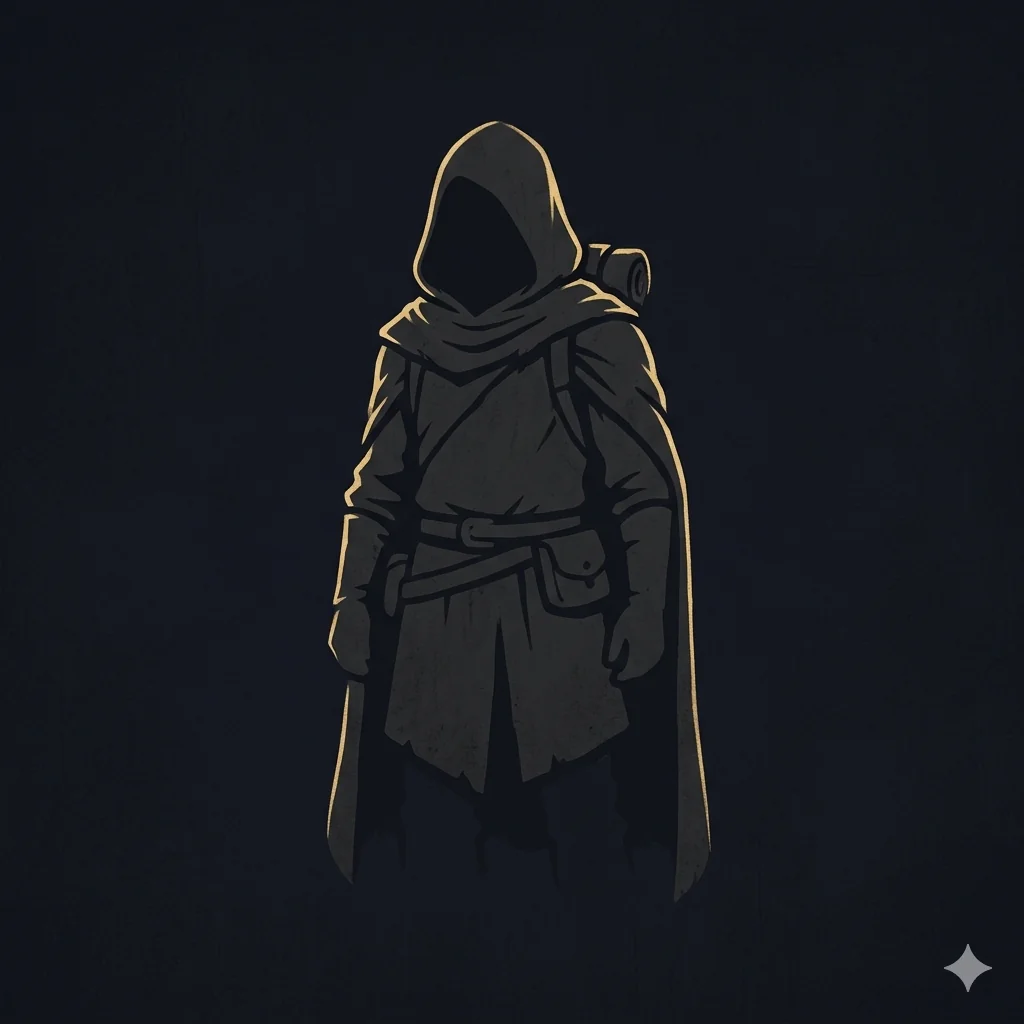
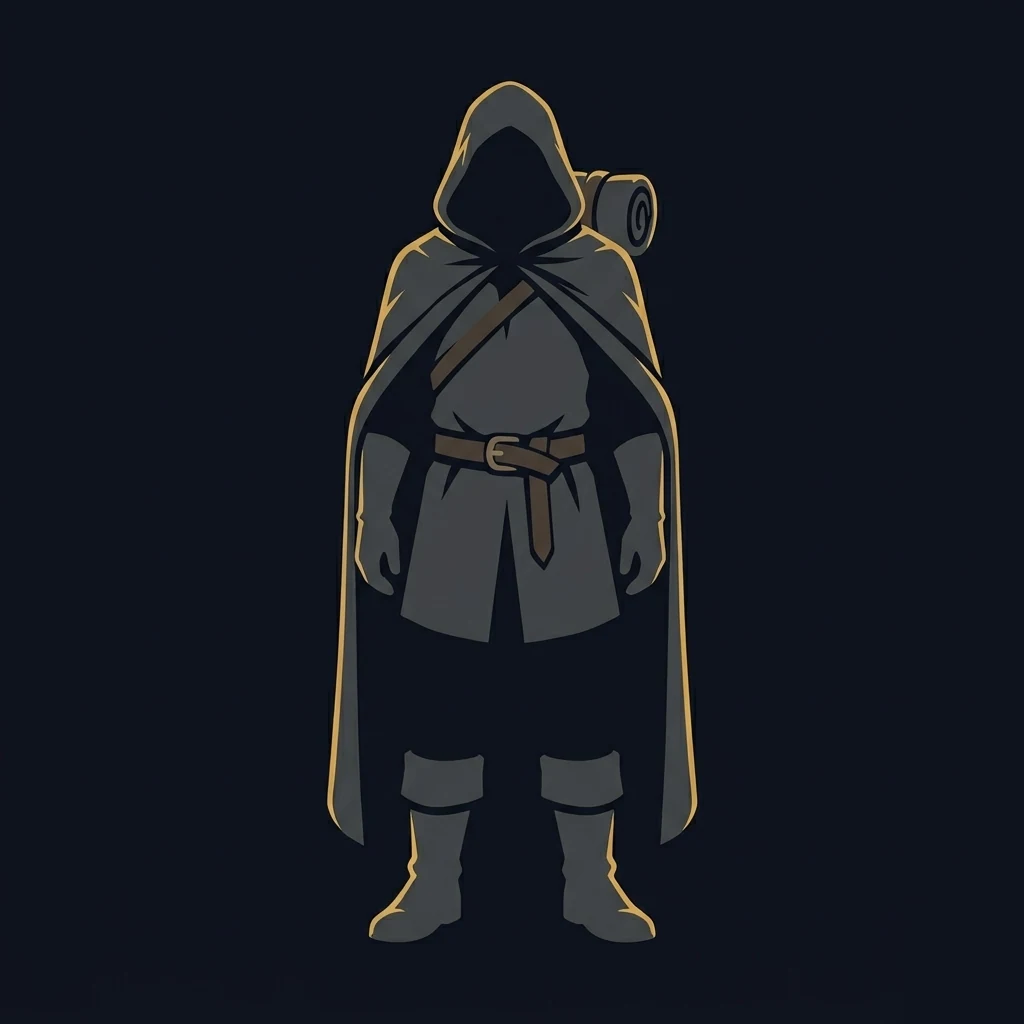
v3.10.3: fix(assets) — детальный d20 и аватар без водяного знака
Заменены два ассета на сгенерированные через Gemini по новым промтам:

assets/d20-fab.webp (148 KB → 1024×1024):
- Раньше был тонкий проволочный полиэдр на прозрачном фоне.
- Теперь — объёмный золотой d20 с фасетной светотенью, серёбренными
  гранями, чёрной обводкой и крупной цифрой «20» в орнаментальном стиле.

assets/avatar-fallback.webp (24 KB → 1024×1024):
- Раньше — фигура в плаще с водяным знаком Gemini в правом нижнем углу.
- Новая версия прошла обработку: sparkle-знак закрашен сплошным фоном
  #0f131e (тот же что у Gemini-картинки) через PIL ImageDraw.rectangle.

CSS .tab-dice-fab переделан под новый d20:
- Убран тёмный radial-gradient круг и акцентная рамка — сам d20 уже
  достаточно эффектный, лишняя обводка перегружала.
- Кнопка стала прозрачной, картинка width/height 100% — d20 «парит»
  в таб-баре.
- Только лёгкая drop-shadow тень для глубины + hover crab-rotate.

Bump CACHE_NAME v80 → v81 — клиенты подтянут новые webp при следующей
загрузке SW.

Changed region(s): [[0.3125, 0.0625, 0.7188, 0.9375], [0.9062, 0.9062, 0.9688, 0.9688]]

diff --git a/style.css b/style.css
@@ -2948,41 +2948,36 @@ button.small { padding: 7px 14px; width: auto; font-size: 0.85em; }
 .tab-btn:active { background: var(--accent-glow) !important; }
 .tab-btn:hover { color: var(--text-color) !important; transform: none !important; box-shadow: none !important; }
 
-/* FAB dice — centered, raised (restored pre-R3 look) */
+/* FAB dice — золотой d20 «парит» в таб-баре. Без круглого фона —
+   сам полиэдр и есть кнопка. Сверху раскачивается hover. */
 .tab-dice-fab {
   width: 56px;
   height: 56px;
-  border-radius: 50%;
-  /* Тёмный круг с акцентным свечением — кубик-полиэдр поверх */
-  background: radial-gradient(circle at 30% 30%, #2a2a36 0%, #15151e 70%);
-  border: 2px solid var(--accent-color);
+  border: none;
+  background: transparent;
   display: flex;
   align-items: center;
   justify-content: center;
-  font-size: 1.7em;
   cursor: pointer;
   flex-shrink: 0;
-  box-shadow: 0 4px 20px rgba(0,0,0,0.55), 0 0 14px var(--accent-glow);
-  transition: transform 0.2s, box-shadow 0.2s, border-color 0.2s;
+  transition: transform 0.2s, filter 0.2s;
   position: relative;
   top: -10px;
   margin: 0 6px;
   padding: 0;
   outline: none;
+  border-radius: 50%;
 }
-.tab-dice-fab:hover {
-  transform: scale(1.1) rotate(-8deg);
-  box-shadow: 0 6px 25px rgba(0,0,0,0.7), 0 0 22px var(--accent-glow);
-}
+.tab-dice-fab:hover { transform: scale(1.1) rotate(-8deg); }
 .tab-dice-fab:active { transform: scale(0.92); }
-/* Картинка d20 внутри FAB — золотой полиэдр на тёмном круге */
+/* Картинка d20 внутри FAB — золотой полиэдр с лёгкой тенью */
 .tab-dice-fab-icon {
-  width: 40px;
-  height: 40px;
+  width: 100%;
+  height: 100%;
   object-fit: contain;
   display: block;
   pointer-events: none;
-  filter: drop-shadow(0 1px 2px rgba(0,0,0,0.6));
+  filter: drop-shadow(0 4px 8px rgba(0,0,0,0.55));
 }
 
 /* R3: dice modal as bottom-sheet on mobile */

diff --git a/data.js b/data.js
@@ -1540,7 +1540,7 @@ const ASI_LEVELS = {
 // ============================================================
 // ВЕРСИЯ ПРИЛОЖЕНИЯ
 // ============================================================
-const APP_VERSION = "3.10.2";
+const APP_VERSION = "3.10.3";
 const APP_VERSION_DATE = "2026-05-15";
 
 // ============================================================
@@ -1826,9 +1826,17 @@ const FEATS_DATA = [
 // ============================================================
 const APP_CHANGELOG = [
   {
-    version: "3.10.2",
+    version: "3.10.3",
     date: "15 мая 2026",
     badge: "new",
+    changes: [
+      { type: "fix", text: "Заменены ассеты d20-fab.webp (детальный золотой полиэдр) и avatar-fallback.webp (фигура в плаще без Gemini-водяного знака) — сгенерированы через Gemini по новым промтам; FAB-кнопка без тёмного круга, d20 парит со свечением" }
+    ]
+  },
+  {
+    version: "3.10.2",
+    date: "15 мая 2026",
+    badge: "old",
     changes: [
       { type: "fix", text: "Fallback-аватар (фигура в плаще) вместо эмодзи 🎭 в шапке листа и в превью модалки аватара когда у персонажа нет билда и класса" }
     ]

diff --git a/sw.js b/sw.js
@@ -2,7 +2,7 @@
 // sw.js — Service Worker для офлайн-работы D&D Sheet
 // ============================================================
 
-const CACHE_NAME = 'dnd-sheet-v80';
+const CACHE_NAME = 'dnd-sheet-v81';
 
 const FILES_TO_CACHE = [
   './',
